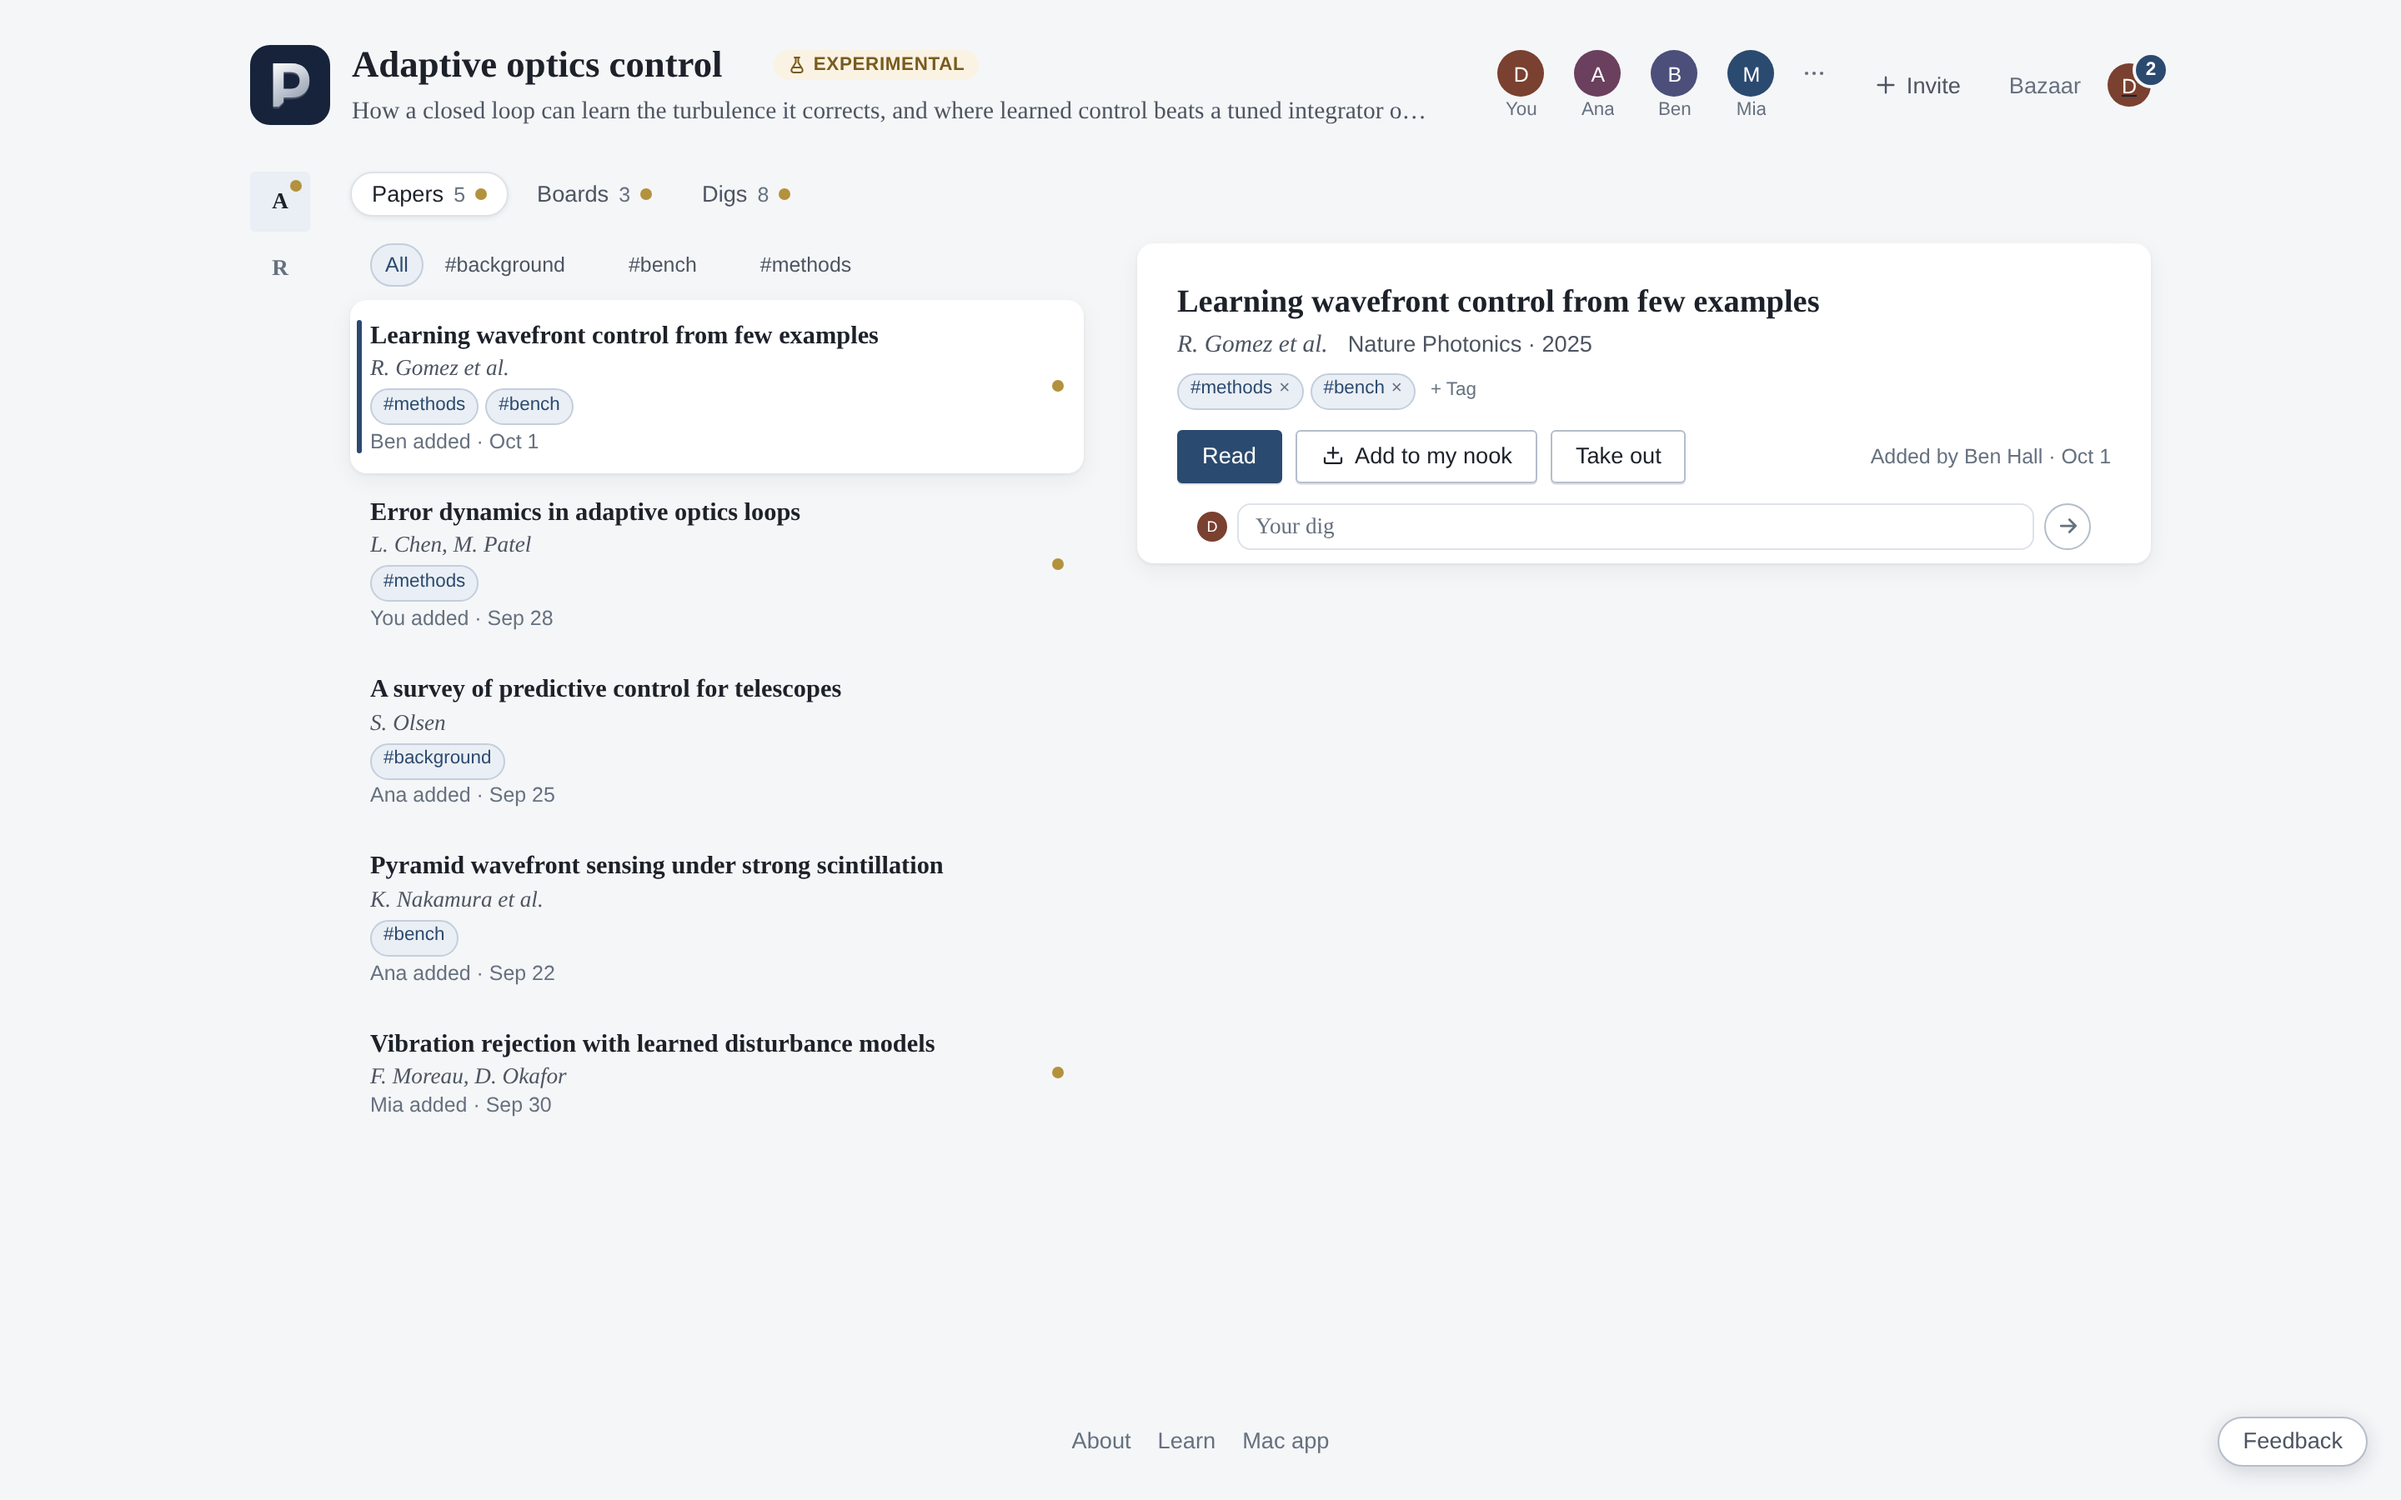
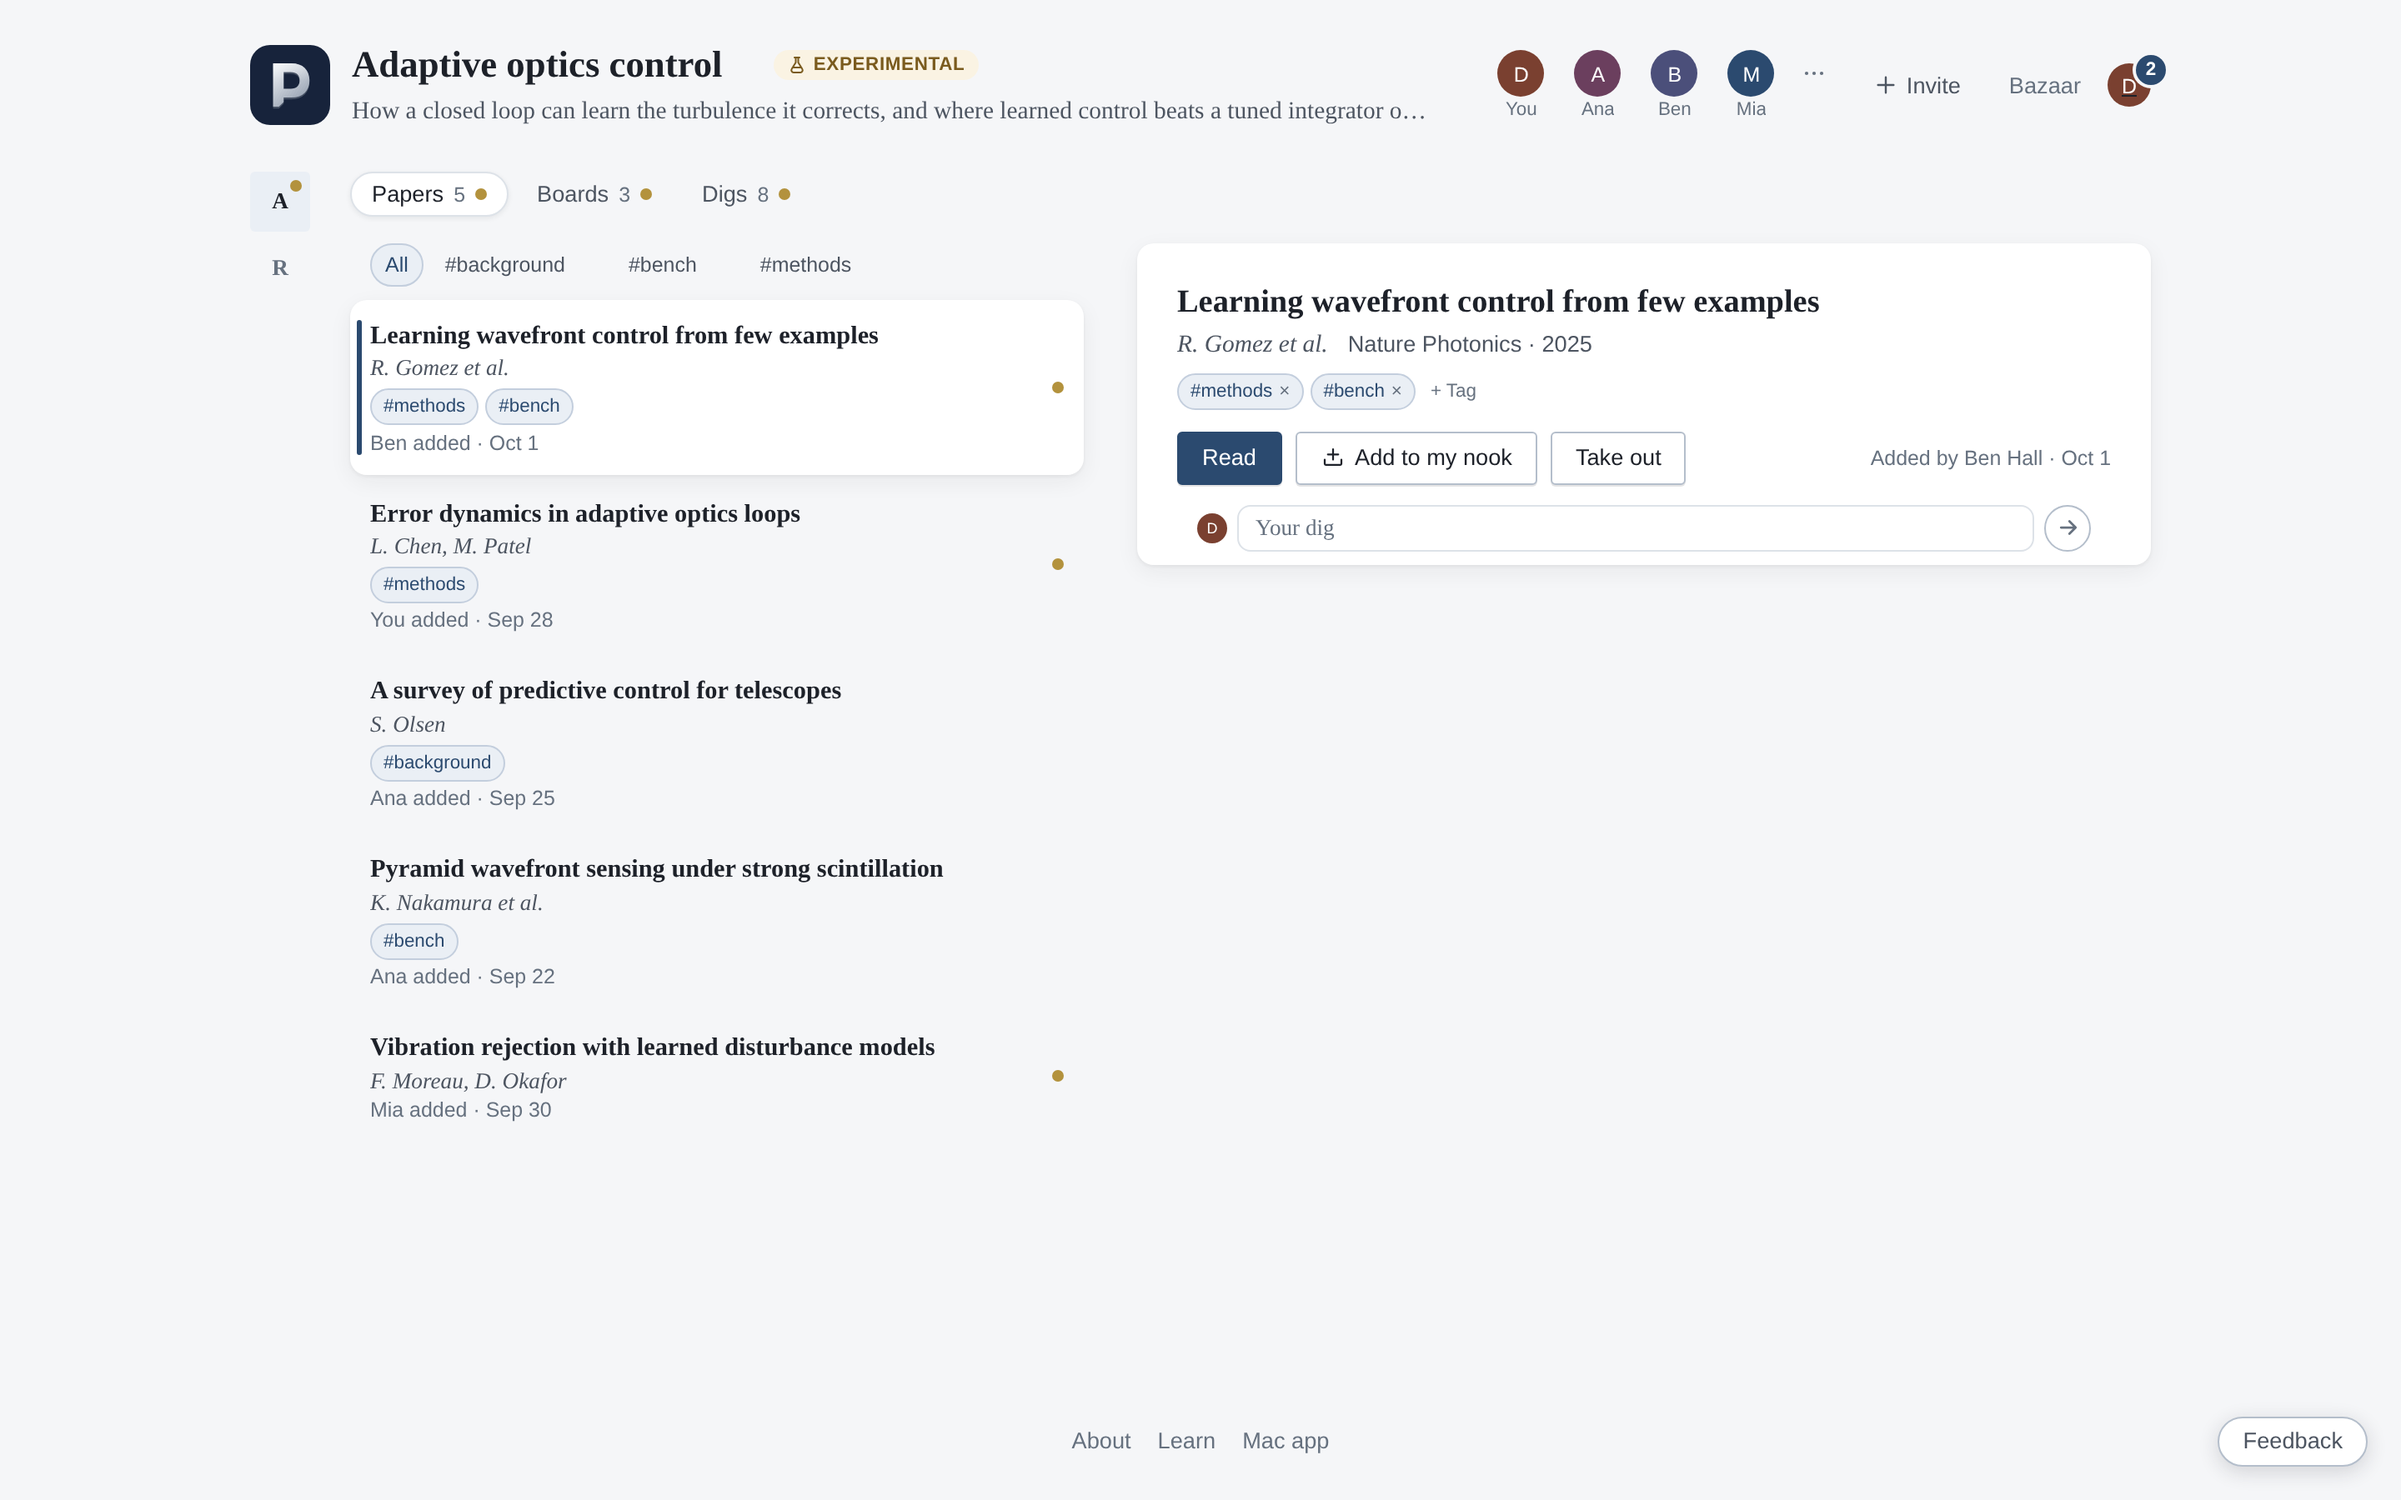
Align project tags by text baseline

diff --git a/shared/applicationStyles.js b/shared/applicationStyles.js
@@ -5241,14 +5241,14 @@ button.project-quiet.project-danger:hover:not(:disabled) { background: var(--red
 .project-tag-filter > .project-tag-delete:hover, .project-tag-filter > .project-tag-delete:focus-visible { border-color: transparent; background: var(--red-soft); color: var(--red); }
 .project-tags-none { margin: var(--space-5) var(--space-3); color: var(--ink-faint); font: var(--fs-sm) var(--font-ui); }
 .project-tag-filter-error { margin: 0 var(--space-3) var(--space-2); color: var(--red); font: var(--fs-xs) var(--font-ui); }
-.project-paper-tags { display: flex; flex-wrap: wrap; align-items: center; gap: 4px; margin-top: 4px; font-family: var(--font-ui); }
-.project-paper-tag-list { display: inline-flex; flex-wrap: wrap; gap: 4px; margin-top: 4px; }
+.project-paper-tags { display: flex; flex-wrap: wrap; align-items: baseline; gap: 4px; margin-top: 4px; font-family: var(--font-ui); }
+.project-paper-tag-list { display: inline-flex; flex-wrap: wrap; align-items: baseline; gap: 4px; margin-top: 4px; }
 .project-paper-tags > .project-paper-tag-list { margin-top: 0; }
-.project-paper-tag { display: inline-flex; align-items: center; justify-content: center; box-sizing: border-box; min-height: 22px; padding: 1px 7px; border: 1px solid var(--accent-line); border-radius: var(--radius-pill); background: var(--accent-soft); color: var(--accent); font: 500 var(--fs-2xs)/1 var(--font-ui); }
-.project-tag-edit { display: inline-flex; align-items: center; justify-content: center; box-sizing: border-box; min-height: 22px; padding: 1px 5px; border: 0; background: transparent; box-shadow: none; color: var(--ink-faint); font: 500 var(--fs-2xs)/1 var(--font-ui); }
+.project-paper-tag { display: inline-flex; align-items: baseline; justify-content: center; box-sizing: border-box; height: 22px; padding: 0 7px; border: 1px solid var(--accent-line); border-radius: var(--radius-pill); background: var(--accent-soft); color: var(--accent); font: 500 var(--fs-2xs)/20px var(--font-ui); }
+.project-tag-edit { display: inline-flex; align-items: baseline; justify-content: center; box-sizing: border-box; height: 22px; min-height: 0; padding: 0 5px; border: 0; background: transparent; box-shadow: none; color: var(--ink-faint); font: 500 var(--fs-2xs)/20px var(--font-ui); }
 .project-tag-edit:hover:not(:disabled), .project-tag-edit:focus-visible { border: 0; background: transparent; color: var(--accent); }
 button.project-paper-tag.is-removable { gap: 4px; box-shadow: none; }
-.project-paper-tag-label, .project-paper-tag-remove { display: inline-flex; align-items: center; line-height: 1; transform: translateY(-1px); }
+.project-paper-tag-label, .project-paper-tag-remove { display: inline-block; line-height: 20px; }
 button.project-paper-tag.is-removable .project-paper-tag-remove { color: var(--ink-faint); }
 button.project-paper-tag.is-removable:hover:not(:disabled), button.project-paper-tag.is-removable:focus-visible { border-color: var(--red); background: var(--red-soft); color: var(--red); }
 .project-tag-picker { position: relative; flex: 1 1 12rem; max-width: 18rem; }
